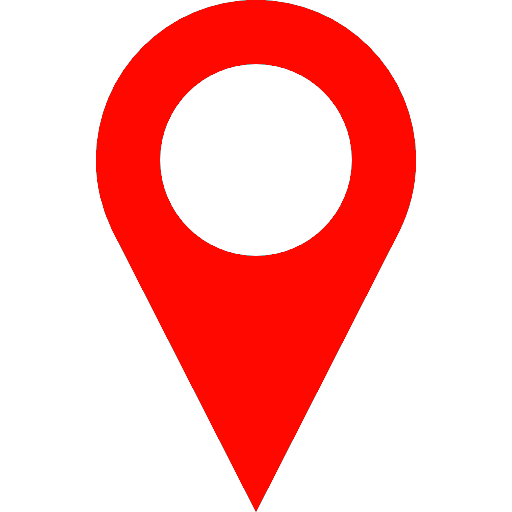
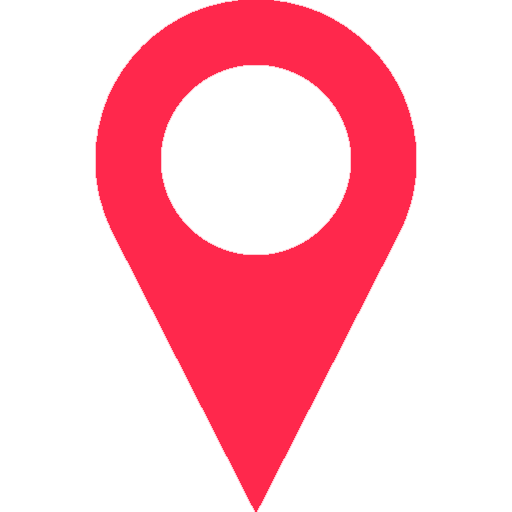
implemented A and B points which can be moved around via toggles

Changed region(s): [[0.1875, 0.0, 0.8125, 1.0]]

diff --git a/src/components/journeyplanner/Geo-To-Postcode.vue b/src/components/journeyplanner/Geo-To-Postcode.vue
@@ -8,24 +8,44 @@
     clicking/onhover on the lines displays additional information about the steps
   clicking/onhover on the points displaus information about the streetName-->
   <div>
-    <leaflet-map></leaflet-map>
-    
+    <div id="mapid"></div>
+
     <div v-bind:class="{inputA:isStartSelected}" v-on:click="toggleStart">Start: {{startLocation}}</div>
-    <div v-bind:class="{inputB:isDestSelected}" v-on:click="toggleDest">Destination: {{destLocation}}</div>
-    <button v-on:click="test">Test</button>
+    <div
+      v-bind:class="{inputB:isDestSelected}"
+      v-on:click="toggleDest"
+    >Destination: {{destLocation}}</div>
+    <!-- <button v-on:click="test">Test</button> -->
   </div>
 </template>
 
 <script>
-import leafletMap from "./Leaflet-Map.vue";
+import L from "leaflet";
+import "leaflet/dist/leaflet.css";
+
+/* fix for marker icons not showing - 
+https://github.com/KoRiGaN/Vue2Leaflet/issues/157 */
+delete L.Icon.Default.prototype._getIconUrl;
+L.Icon.Default.mergeOptions({
+  iconRetinaUrl: require("leaflet/dist/images/marker-icon-2x.png"),
+  iconUrl: require("leaflet/dist/images/marker-icon.png"),
+  shadowUrl: require("leaflet/dist/images/marker-shadow.png")
+});
 
 export default {
-  components:{
-    "leaflet-map": leafletMap   
-  },
   data: function() {
     return {
-      count: 0,
+      map: {},
+      iconA: L.icon({
+        iconUrl: require("../../assets/iconA.png"),
+        iconSize: [30, 30]
+      }),
+       iconB: L.icon({
+        iconUrl: require("../../assets/iconB.png"),
+        iconSize: [30, 30]
+      }),
+      pointA: {},
+      pointB: {},
       startLocation: "test",
       destLocation: "",
       isStartSelected: true,
@@ -33,61 +53,86 @@ export default {
     };
   },
   computed: {
+    isSelectedClass: function() {
+      return {
+        inputA: this.isStartSelected,
+        inputB: this.isDestSelected
+      };
+    }
   },
   methods: {
+    initMap: function() {
+      this.map = L.map("mapid");
+      this.map.setView([51.505, -0.09], 13);
+      //Set tile layer provider
+      L.tileLayer("https://{s}.tile.openstreetmap.org/{z}/{x}/{y}.png", {
+        attribution:
+          '&copy; <a href="https://www.openstreetmap.org/copyright">OpenStreetMap</a> contributors'
+      }).addTo(this.map);
 
+      this.pointA = L.marker([51.505, -0.09], { icon: this.iconA }).addTo(this.map);
+      this.pointB = L.marker([51.505, -0.08], { icon: this.iconB }).addTo(this.map);
+
+      //init map click events
+      this.map.on("click", ev => {
+        if (this.isStartSelected) {
+          this.startLocation = ev.latlng;
+          this.pointA.setLatLng(ev.latlng)
+     
+        } 
+        else if (this.isDestSelected) {
+          this.destLocation = ev.latlng;
+          this.pointB.setLatLng(ev.latlng)
+        }
+      });
+    },
     toggleStart: function() {
-        //if startIsSelected is false 
-        if(this.isStartSelected === false){
-            if(this.isDestSelected){
-            this.isDestSelected = false;
-            }
+      //if startIsSelected is false
+      if (this.isStartSelected === false) {
+        if (this.isDestSelected) {
+          this.isDestSelected = false;
+        }
         //make toggleStart true
         this.isStartSelected = true;
-        }
-        //else if toggleStart is true
-        else if(this.isStartSelected){
-          //alert user to click on a location
-          alert("Click on a start location")
-        }
-        
+      }
+      //else if toggleStart is true
+      else if (this.isStartSelected) {
+        //alert user to click on a location
+        alert("Click on a start location");
+      }
     },
     toggleDest: function() {
-        //if startIsSelected is false 
-        if(this.isDestSelected === false){
-            if(this.isStartSelected){
-            this.isStartSelected = false;
-            }
+      //if startIsSelected is false
+      if (this.isDestSelected === false) {
+        if (this.isStartSelected) {
+          this.isStartSelected = false;
+        }
         //make toggleStart true
         this.isDestSelected = true;
-        }
-        //else if toggleStart is true
-        else if(this.isDestSelected){
-          //alert user to click on a location
-          alert("Click on a destnation location")
-        }
-    },
-    test: function(){
-        console.log("Testing 123")
-    } 
+      }
+      //else if toggleStart is true
+      else if (this.isDestSelected) {
+        //alert user to click on a location
+        alert("Click on a destnation location");
+      }
+    }
   },
   mounted() {
-
+    this.initMap();
   }
 };
 </script>
 
 <style scoped>
-
 #mapid {
   height: 480px;
 }
 
-.inputA{
-    background-color: blue
+.inputA {
+  background-color: rgb(125, 125, 241);
 }
 
-.inputB{
-    background-color: red
+.inputB {
+  background-color: red;
 }
 </style>

diff --git a/src/components/journeyplanner/Leaflet-Map.vue b/src/components/journeyplanner/Leaflet-Map.vue
@@ -57,9 +57,9 @@ export default {
 
       L.marker(this.pointA, {icon: this.myIcon}).addTo(this.map);     
       //init map click events
-    //   map.on("click", function(ev) {
-    //     L.marker(ev.latlng, {icon: myIcon}).addTo(map);
-    //   });
+      this.map.on("click", function(ev) {
+        L.marker(ev.latlng, {icon: this.myIcon}).addTo(this.map);
+      });
    
   }
 };

diff --git a/src/App.vue b/src/App.vue
@@ -27,6 +27,7 @@ export default {
   methods:{
   },
   mounted(){
+    
   }
 }
 </script>
